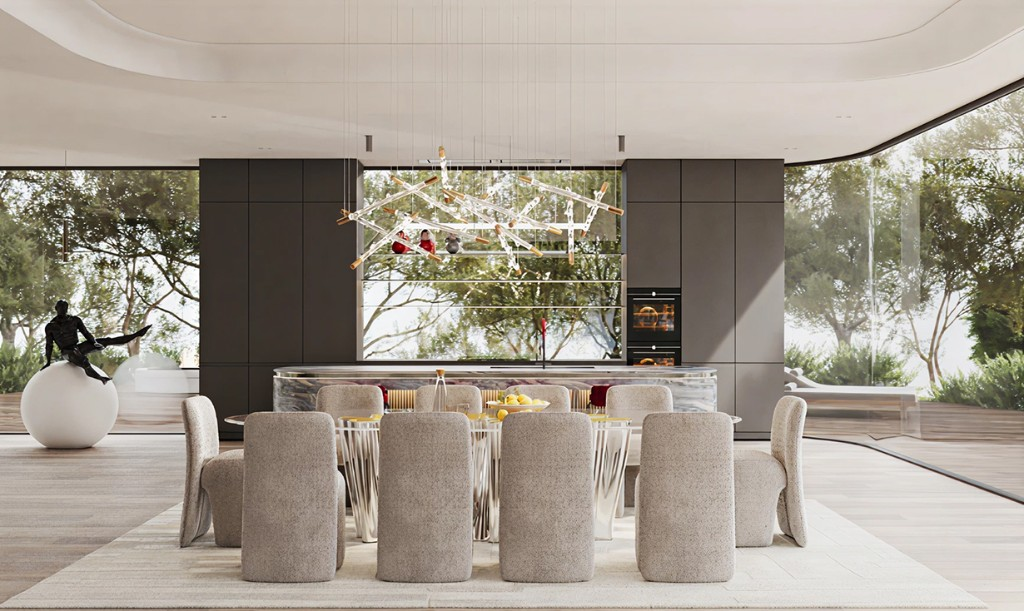
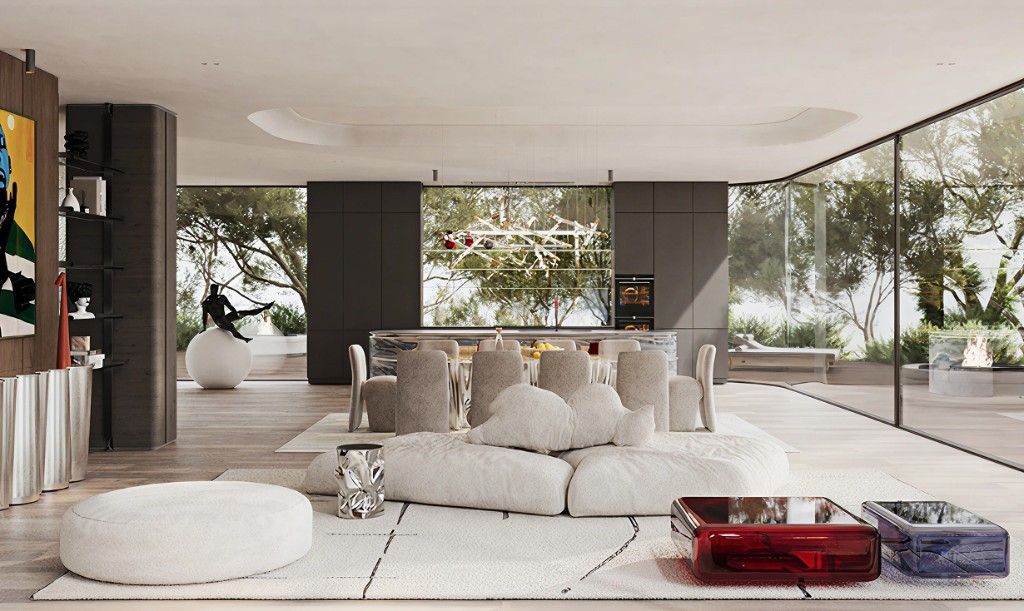
Add footer CTA video and refresh destination and days assets.
Replace final CTA background with footer.mp4, update tropics opening video and ecosystem images for Barcelona, Cabarete, and Prea, restore Alpine as coming soon, and swap Days Fine dining card art.

diff --git a/js/data.js b/js/data.js
@@ -45,7 +45,11 @@ export const LOCATION_GROUPS = {
       image: "assets/ecosystem-bg-jeri-lobby.png?v=20260602-1724",
     },
     { name: "Flora", country: "Costa Rica", image: "assets/ecosystem-bg-2.jpg" },
-    { name: "Prea", country: "Brazil", image: "assets/hero-bg-jericoacoara.png?v=20260602-1251" },
+    {
+      name: "Prea",
+      country: "Brazil",
+      image: "assets/ecosystem-bg-prea-tropical.png?v=20260602-1800",
+    },
     {
       name: "Roca",
       country: "Costa Rica",
@@ -54,7 +58,7 @@ export const LOCATION_GROUPS = {
     {
       name: "Cabarete",
       country: "Dominican Republic",
-      image: "assets/ecosystem-bg-cabarete-tropical.png?v=20260602-1744",
+      image: "assets/ecosystem-bg-cabarete-tropical.png?v=20260602-1756",
     },
   ],
   urban: [
@@ -66,7 +70,7 @@ export const LOCATION_GROUPS = {
     {
       name: "Barcelona",
       country: "Spain",
-      image: "assets/ecosystem-bg-barcelona-urban.png?v=20260602-1733",
+      image: "assets/ecosystem-bg-barcelona-urban.png?v=20260602-1758",
     },
     {
       name: "Cape Town",
@@ -74,13 +78,7 @@ export const LOCATION_GROUPS = {
       image: "assets/ecosystem-bg-capetown-urban.png?v=20260602-1736",
     },
   ],
-  alpine: [
-    {
-      name: "St. Moritz",
-      country: "Switzerland",
-      image: "assets/ecosystem-bg-alpine.png?v=20260602-1746",
-    },
-  ],
+  alpine: [],
 };
 
 export const OPENING_SLIDES = [
@@ -99,7 +97,7 @@ export const OPENING_SLIDES = [
   },
   {
     label: "Tropics exploration",
-    video: "assets/tropics.mp4?v=20260602-1446",
+    video: "assets/tropics.mp4?v=20260602-1804",
     image: "assets/opening-slide-2.png?v=20260602-1430",
     mediaWidth: 394,
     mediaLeft: "calc(50% - 197px - 8px)",

diff --git a/index.html b/index.html
@@ -172,7 +172,7 @@
                 <span class="days__label">Water sports</span>
               </article>
               <article class="days__card" data-index="1">
-                <img src="assets/days-dining.jpg" alt="" width="205" height="274" loading="lazy" />
+                <img src="assets/days-dining.png?v=20260602-1803" alt="" width="205" height="274" loading="lazy" />
                 <span class="days__label">Fine dining</span>
               </article>
               <article class="days__card" data-index="2">
@@ -195,7 +195,18 @@
       <!-- Screen 6: Final CTA (378×387) -->
       <section class="cta-final" id="request" aria-label="Discover">
         <div class="cta-final__bg" aria-hidden="true">
-          <img src="assets/cta-nature.jpg?v=20260602-1458" alt="" width="2730" height="1536" loading="lazy" />
+          <video
+            class="cta-final__bg-media"
+            src="assets/footer.mp4?v=20260602-1804"
+            poster="assets/cta-nature.jpg?v=20260602-1458"
+            width="2730"
+            height="1536"
+            muted
+            loop
+            autoplay
+            playsinline
+            preload="metadata"
+          ></video>
         </div>
 
         <div class="cta-final__content">
@@ -305,6 +316,6 @@
       </button>
     </nav>
 
-    <script type="module" src="js/main.js?v=20260602-1746"></script>
+    <script type="module" src="js/main.js?v=20260602-1804"></script>
   </body>
 </html>

diff --git a/css/sections.css b/css/sections.css
@@ -968,7 +968,8 @@
   overflow: hidden;
 }
 
-.cta-final__bg img {
+.cta-final__bg img,
+.cta-final__bg video {
   display: block;
   width: 100%;
   height: 100%;